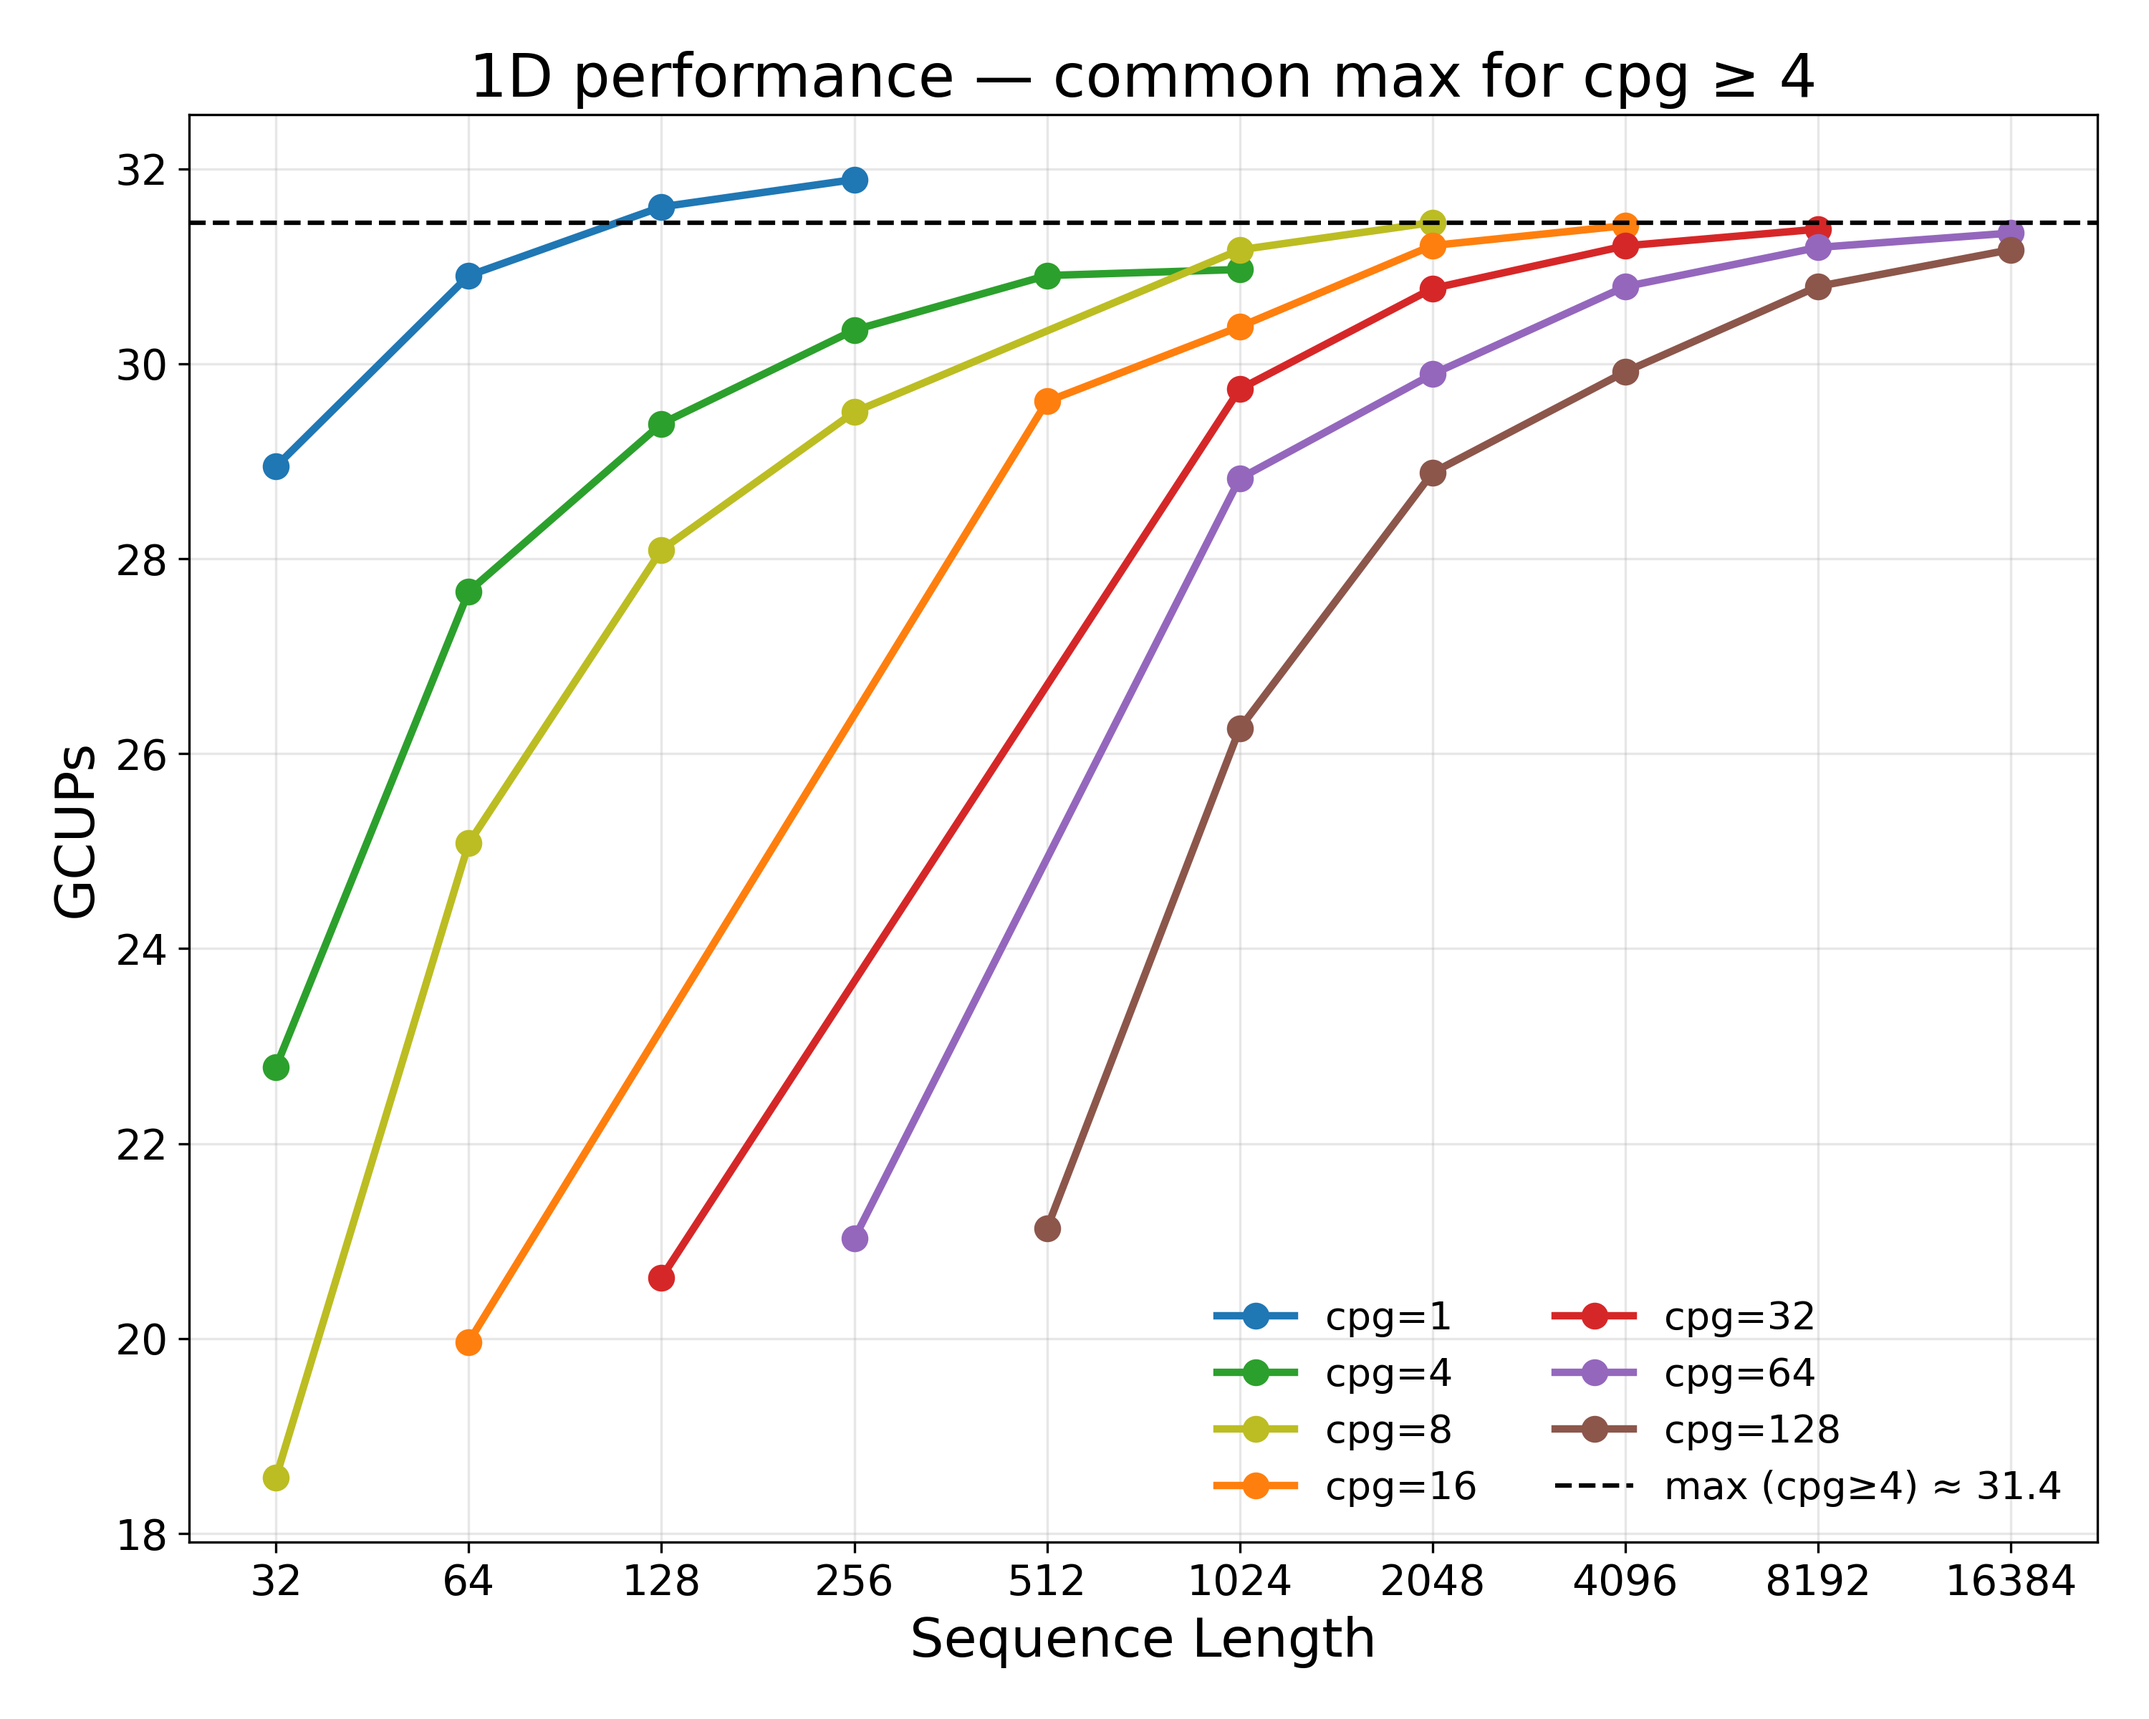
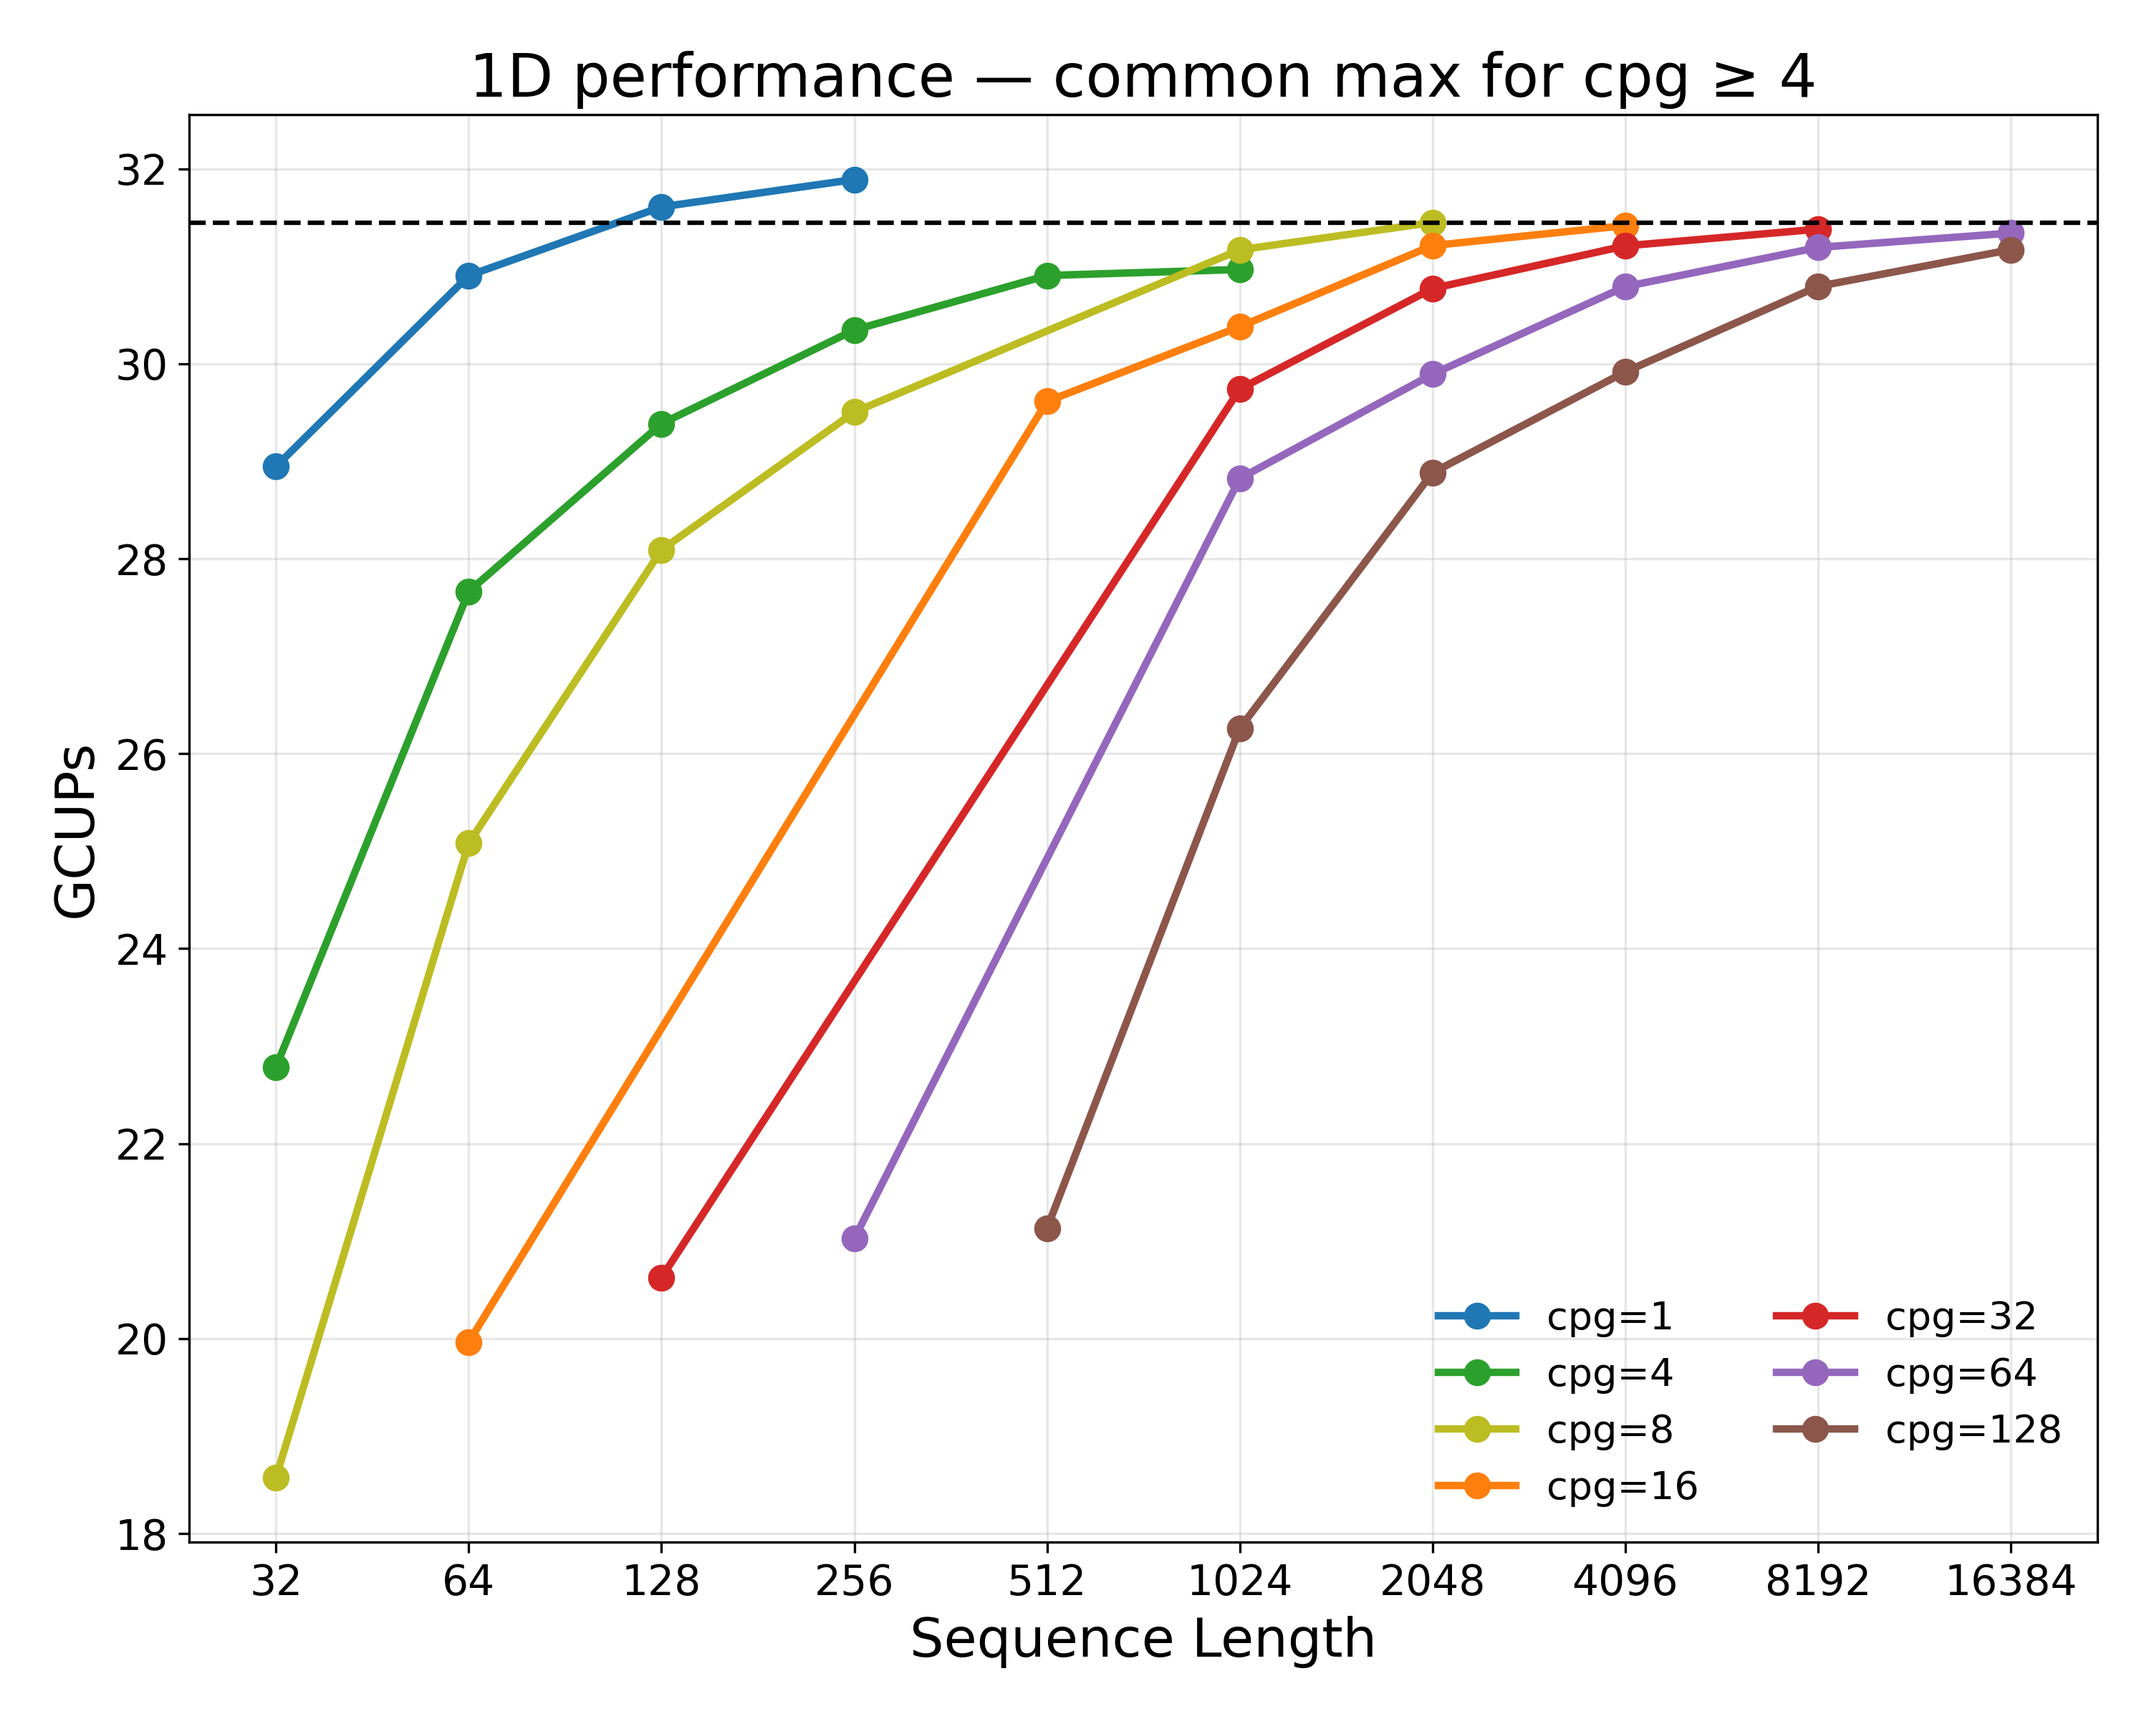
charts: tighter axes for sw effect_hibw + cleaner cpg-max legend
- sw effect_hibw: shared y-axis (0–40 GCUPs) for side-by-side use,
  but each plot fits its own seq_len range to remove the empty space
  the previous shared x-axis introduced.
- 1d_allcpg_gcups_max: drop the max-line label from the legend so
  the 7 cpg series stay tidy; the dashed line is self-explanatory.

Changed region(s): [[0.558, 0.75, 0.961, 0.875]]

diff --git a/plot.py b/plot.py
@@ -276,8 +276,9 @@ def plot_1d_all_cpg():
             sls   = [int(r["seq_len"]) for r in by_cpg[cpg]]
             gcups = [gcups_chipwide(r) for r in by_cpg[cpg]]
             ax.plot(sls, gcups, "o-", color=CPG_COLORS[cpg], label=f"cpg={cpg}")
-        ax.axhline(common_max, color="black", linestyle="--", linewidth=1.5,
-                   label=f"max (cpg≥4) ≈ {common_max:.1f}")
+        # Max line is annotated inline (not in the legend) to keep the
+        # legend tight at 7 cpg series.
+        ax.axhline(common_max, color="black", linestyle="--", linewidth=1.5)
         style_seqlen_axis(ax, all_seqlens); gcups_axis(ax)
         ax.legend(ncol=2, loc="best", frameon=False)
         ax.set_title("1D performance — common max for cpg ≥ 4")
@@ -318,28 +319,16 @@ def plot_1d_vs_2d():
 def plot_sw_effect_hibw():
     """Separate regular vs high-bandwidth plots for sw/1d and sw/2d.
 
-    Shared axes (so the two plots are directly comparable side-by-side
-    in a presentation):
-      x: seq_len 32–4096 (covers both 2D's 32–1024 range and 1D's 256–4096)
-      y: 0–40 GCUPs
+    y-axis is shared (0–40 GCUPs) so the two plots are directly
+    comparable when placed side-by-side in a presentation.  x-axis
+    is independent — each plot fits its own seq_len range to avoid
+    a lot of empty space.
 
     sw/2d covers seq_len 32–1024 (6 points, both fast and slow have full data).
     sw/1d covers only the 4 (cpg, seq_len) pairs that have both fast and
     slow data — the slow filter sampled the largest seq_len per CPG only.
     """
-    SHARED_TICKS = [32, 64, 128, 256, 512, 1024, 2048, 4096]
-    SHARED_XLIM  = (28, 4500)
-    SHARED_YLIM  = (0, 40)
-
-    def style_shared_axes(ax):
-        ax.set_xscale("log", base=2)
-        ax.set_xticks(SHARED_TICKS)
-        ax.xaxis.set_major_formatter(mticker.ScalarFormatter())
-        ax.xaxis.set_minor_formatter(mticker.NullFormatter())
-        ax.set_xlim(*SHARED_XLIM)
-        ax.set_ylim(*SHARED_YLIM)
-        ax.set_xlabel("Sequence Length")
-        ax.set_ylabel("GCUPs")
+    SHARED_YLIM = (0, 40)
 
     # ── sw/2d ──────────────────────────────────────────────────────────────
     fast_2d = {int(r["seq_len"]): r for r in load_sw2d_fast()}
@@ -350,7 +339,8 @@ def plot_sw_effect_hibw():
     fig, ax = plt.subplots(figsize=SIZE_DEFAULT)
     ax.plot(common_2d, reg, "o-", color=COLOR_REGULAR, label="regular")
     ax.plot(common_2d, hib, "s-", color=COLOR_HIBW,    label="high bandwidth")
-    style_shared_axes(ax)
+    style_seqlen_axis(ax, common_2d); gcups_axis(ax)
+    ax.set_ylim(*SHARED_YLIM)
     ax.legend(loc="lower right", frameon=False)
     ax.set_title("2D — effect of high bandwidth")
     save(fig, "2d_effect_hibw")
@@ -368,7 +358,8 @@ def plot_sw_effect_hibw():
     for (cpg, sl), r in zip(common_1d, reg_1d):
         ax.annotate(f"cpg={cpg}", (sl, r), textcoords="offset points",
                     xytext=(8, -16), fontsize=11)
-    style_shared_axes(ax)
+    style_seqlen_axis(ax, sls); gcups_axis(ax)
+    ax.set_ylim(*SHARED_YLIM)
     ax.legend(loc="lower right", frameon=False)
     ax.set_title("1D — effect of high bandwidth (best per CPG)")
     save(fig, "1d_effect_hibw")
